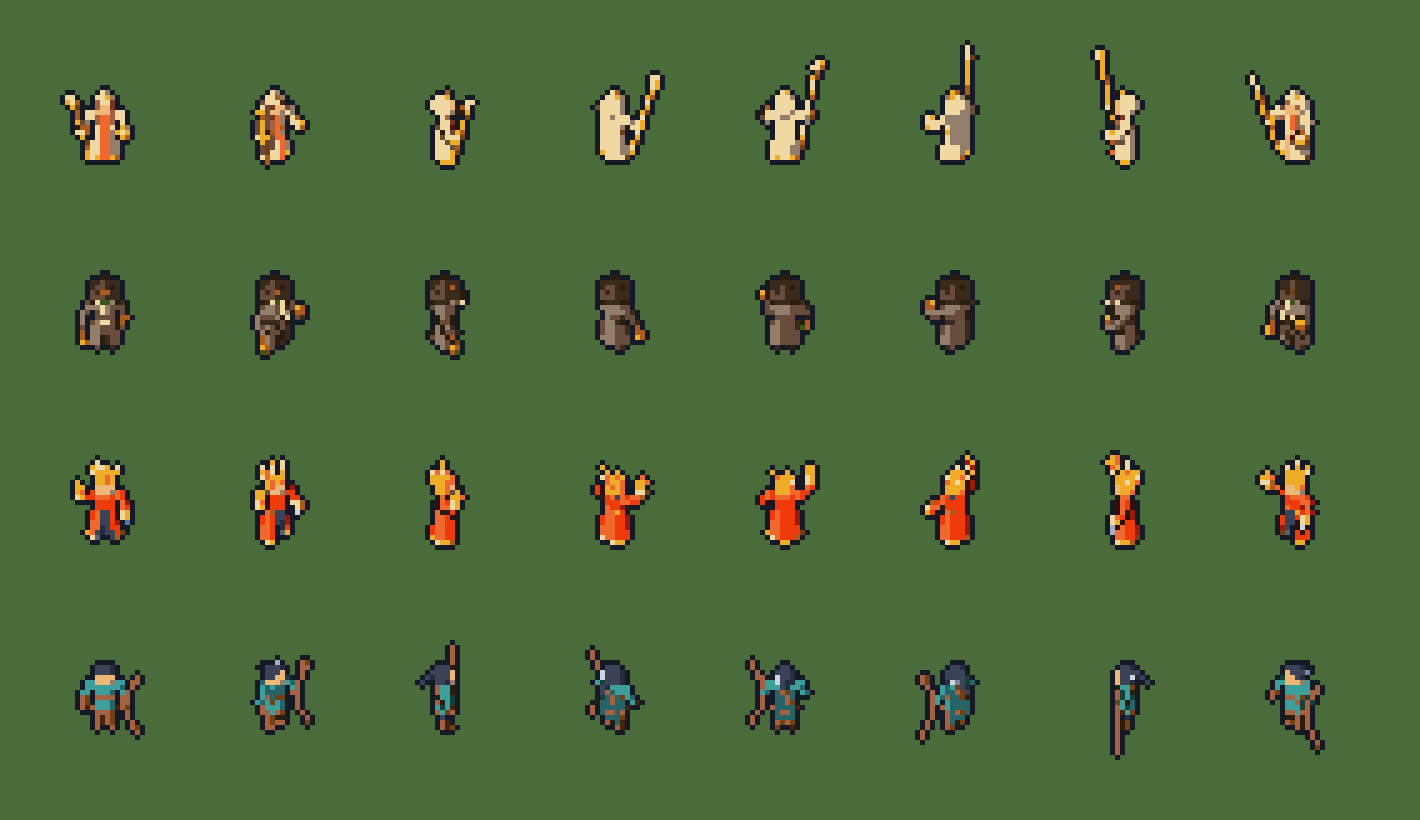
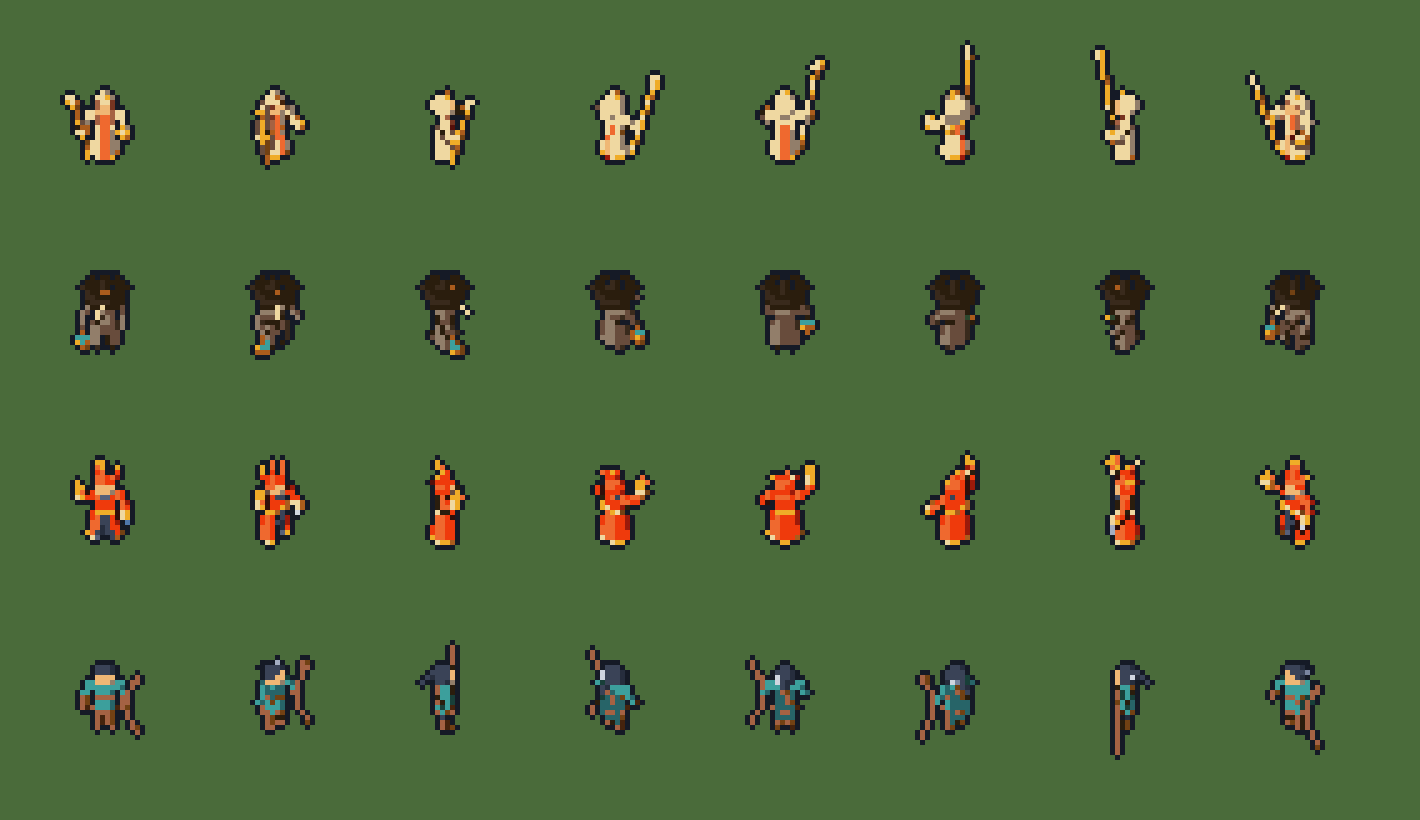
세라피나 뒷모습·걷기·공격 준비 — 베일 어깨선+금 단, 등 영대, 치맛단 올리기, 지팡이 앞에 세우기(Gemini 4차 «상»)
Gemini 4차의 세라피나 «상» 지적(뒷모습 상아 한 덩어리, 뒤 걷기가 떠다님)과
먼저 고칠 5가지에 든 공격 준비 지팡이를 고쳤다. 사용자가 «상» 지적 전부를 고르게 했다(2026-10-19).
다른 영웅 정지 비교 미리보기에도 세라피나·베스퍼·이그니스가 들어 있어 함께 다시 만들었다.

Claude-Session: https://claude.ai/code/session_01XsJzvSywTfhUgL72Hqiuhg

diff --git a/tools/art/seraphina.py b/tools/art/seraphina.py
@@ -21,15 +21,16 @@ BASE = {"skin": ["684c3c", "927e6a", "efb775", "efb775", "efb775"],  # 자동(e8
 MATS = list(BASE)
 PARTS = ["leg", "torso", "head", "arm", "staff", "orb"]
 SIZES = (24,)
-TAG = f"m5 ppu{H.PPU24} seraphina1"  # 형체 크기를 바꾸면 이 꼬리표도 바꾼다(fit.json)
+TAG = f"m5 ppu{H.PPU24} seraphina2"  # 형체 크기를 바꾸면 이 꼬리표도 바꾼다(fit.json)
 
 STAFF = dict(sword=10, sword_side=10)
 L_ARM = dict(sh_l=25, el_l=55, ab_l=0.3)  # 빛 구슬을 가슴 높이 앞에 든다
 IDLE = dict(H.IDLE, **STAFF, **L_ARM)
 WALK = [dict(w, **STAFF, **L_ARM) for w in H.WALK]
-# 공격은 원거리(S121 사거리 3): 지팡이를 뒤로 눕혀 낮게 들었다가(준비) 머리 위로 곧게 치켜들며 해 원반을 키우고 왼손을 과녁 쪽으로 뻗는다(발사,
-# 가운데가 타격 프레임). 마무리는 반쯤 내린다. 과녁 쪽으로 겨누면(sword 25) 남·남동에서 앞으로 기운 지팡이가 화면에서 짧아져 안 보였다
-ATTACK = [dict(H.POSE, **L_ARM, sh_r=30, el_r=40, ab_r=0.5, sword=-35, sword_side=10, lean=-5),
+# 공격은 원거리(S121 사거리 3): 지팡이를 몸 앞에 곧게 모아 쥐었다가(준비) 머리 위로 곧게 치켜들며 해 원반을 키우고 왼손을 과녁 쪽으로 뻗는다(발사,
+# 가운데가 타격 프레임). 마무리는 반쯤 내린다. 과녁 쪽으로 겨누면(sword 25) 남·남동에서 앞으로 기운 지팡이가 화면에서 짧아져 안 보였다.
+# 준비에서 지팡이를 뒤로 35° 눕히면 북·북동에서 몸에 가려 해 원반이 사라졌다(Gemini 4차 2026-10-19). 지금은 수직에서 10° 안이다
+ATTACK = [dict(H.POSE, **L_ARM, sh_r=35, el_r=45, ab_r=0.15, sword=8, sword_side=-8, lean=-3),
           dict(H.POSE, sh_l=75, el_l=5, ab_l=0.2, sh_r=165, el_r=5, ab_r=0.4, sword=-5, sword_side=5, lean=6, sun=1.6),
           dict(H.POSE, **L_ARM, sh_r=100, el_r=20, ab_r=0.45, sword=0, sword_side=10, lean=3)]
 FALL = [dict(H.FALL[0], **L_ARM), dict(H.FALL[1], orb=0)] + [dict(f, orb=0, staff=0) for f in H.FALL[2:]]
@@ -43,8 +44,9 @@ def seraphina(pose, bob_unit):
     def local(fn):
         return H.local(U, up_r, fn)
 
-    def skirt(q, grow=0.0):  # 허리에서 발목까지
-        return H.flare(q, 0.47, 0.035, 0.11, 0.17, grow)
+    def skirt(q, grow=0.0):  # 허리에서 발목 위까지. 단을 0.035 → 0.075로 올려 걸을 때 금 신발이 단 아래로 보이게 했다. 발목까지 덮으면
+        # 북·북동·북서에서 다리가 안 보여 윗몸만 떠다니는 것처럼 보였다(Gemini 4차 2026-10-19)
+        return H.flare(q, 0.47, 0.075, 0.11, 0.17, grow)
 
     P = []  # (sdf, 재질, 부위)
     for side in "lr":  # 다리는 치마에 가리고 금 신발만 앞뒤로 나온다
@@ -53,11 +55,16 @@ def seraphina(pose, bob_unit):
               (R.ellipsoid(G(ankle + [0, 0.035, -0.005]), (0.04, 0.065, 0.03)), m("gold"), "leg")]
     P += [(R.box(U([0, 0, 0.575]), (0.115, 0.07, 0.12), up_r, 0.035), m("ivory"), "torso"),  # 몸판
           (local(skirt), m("ivory"), "torso"),
-          (local(lambda q: np.maximum(skirt(q, 0.006), q[:, 2] - 0.075)), m("gold"), "torso"),  # 겉치마 금 단
+          (local(lambda q: np.maximum(skirt(q, 0.006), q[:, 2] - 0.115)), m("gold"), "torso"),  # 겉치마 금 단
           (local(lambda q: np.maximum(np.maximum(skirt(q, 0.008), np.abs(q[:, 0]) - 0.035), -q[:, 1])), m("dawn"), "torso"),  # 앞자락 사이 새벽 주황 속치마
           (R.box(U([0, 0.066, 0.58]), (0.03, 0.012, 0.11), up_r), m("dawn"), "torso"),  # 영대
           (R.box(U([0, 0, 0.465]), (0.12, 0.078, 0.016), up_r), m("gold"), "torso"),  # 금 허리끈
-          (R.box(U([0, -0.105, 0.55]), (0.13, 0.012, 0.24), up_r, 0.01), m("ivory"), "torso")]  # 등 뒤 베일
+          # 등: 베일은 어깨선까지만 내리고 끝에 금 단을 두른다. 그 아래 등 가운데로 주황 영대가 치맛단까지 내려온다.
+          # 베일이 허리 아래까지 내려오면 북·북동·북서 뒷모습이 머리부터 발끝까지 상아 한 덩어리였다(Gemini 4차 2026-10-19)
+          (R.box(U([0, -0.105, 0.70]), (0.13, 0.012, 0.10), up_r, 0.01), m("ivory"), "torso"),
+          (R.box(U([0, -0.108, 0.605]), (0.135, 0.016, 0.012), up_r), m("gold"), "torso"),
+          (R.box(U([0, -0.066, 0.58]), (0.03, 0.012, 0.11), up_r), m("dawn"), "torso"),
+          (local(lambda q: np.maximum(np.maximum(skirt(q, 0.008), np.abs(q[:, 0]) - 0.03), q[:, 1])), m("dawn"), "torso")]
     P.append((R.ellipsoid(U([0, 0, 0.80]), (0.12, 0.115, 0.125)), m("skin"), "head"))
     hair = R.ellipsoid(U([0, -0.015, 0.805]), (0.13, 0.125, 0.13))
     veil = R.ellipsoid(U([0, -0.02, 0.81]), (0.14, 0.14, 0.14))

diff --git a/insights/2026-10-19_hero_sprites.md b/insights/2026-10-19_hero_sprites.md
@@ -37,9 +37,20 @@
   - 첫 안은 크로노스처럼 과녁 쪽으로 겨눴다. 남·남동에서 앞으로 기운 지팡이가 화면에서 짧아져(25°면 길이의 34%) 보이지 않았다. 세우면 8방향 모두 화면 위로 선다.
 - 쓰러짐: 기사 자세를 쓴다. 빛 구슬은 둘째 프레임부터, 지팡이는 셋째 프레임부터 사라진다.
 
+### Gemini 4차 반영(사용자 2026-10-19 «상» 지적 전부)
+
+| 지적 | 고친 것 |
+|---|---|
+| N·NE·NW 뒷모습이 상아 한 덩어리(두부·유령) | 등 뒤 베일을 어깨선(z 0.60)까지만 내리고 끝에 금 단을 둘렀다. 그 아래 등 가운데로 주황 영대가 치맛단까지 내려온다 |
+| 뒤 걷기가 떠다니는 것처럼 보인다 | 치맛단을 0.035 → 0.075로 올려 걸을 때 금 신발이 단 아래로 보인다. 금 단 높이도 같이 올렸다 |
+| (먼저 고칠 5가지 안) 공격 f1 지팡이가 N·NE에서 가려진다 | 준비 프레임은 지팡이를 몸 앞에 수직 10° 안으로 모아 쥔다. 4방향(S·E·NE·N) 모두 해 원반이 몸 위로 보인다 |
+
+- 꼬리표를 `seraphina2`로 올렸다. 캔버스 30px·기준점 (15, 25)는 그대로다.
+- «중»의 «해 모양 관이 베일에 섞인다», «주황 앞단을 1px로 좁혀라»는 사용자가 고른 범위(«상») 밖이라 두었다.
+
 ### 약점(검수 때 볼 것)
 
-- 북·북동·북서 뒷모습이 상아 판에 지팡이만 있다. 컨셉에 뒷모습이 없다.
+- 북·북동·북서 뒷모습이 상아 판에 지팡이만 있다. 컨셉에 뒷모습이 없다(4차 반영 전).
 - 지팡이와 몸 사이 1px 틈이 외곽선 색으로 칠해져 몸판에 검은 세로줄처럼 보인다(남·남서).
 - 준비 프레임은 북·북동에서 지팡이가 몸 뒤로 가려 거의 안 보인다.
 
